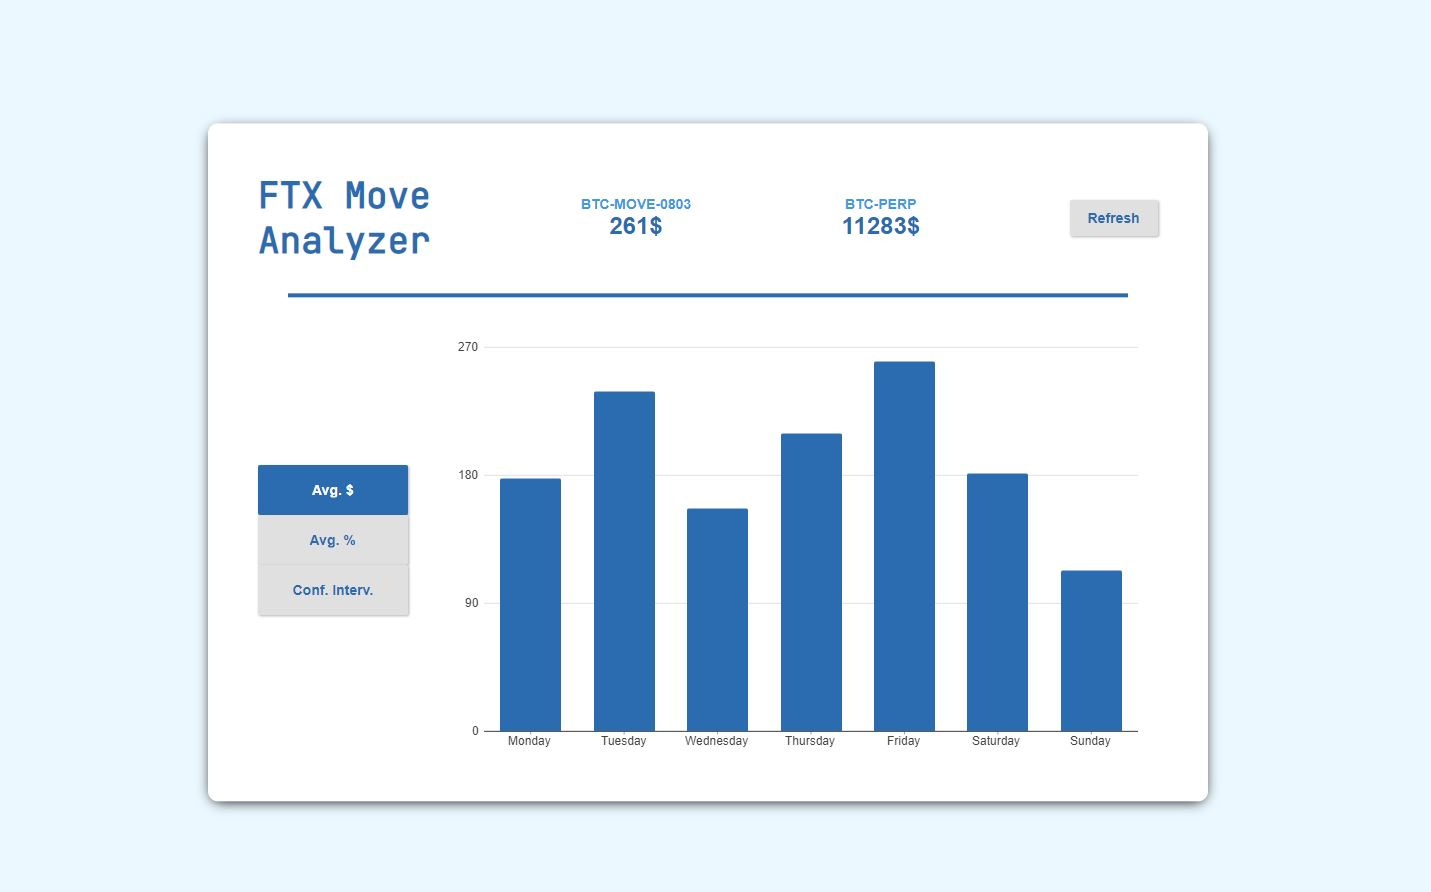
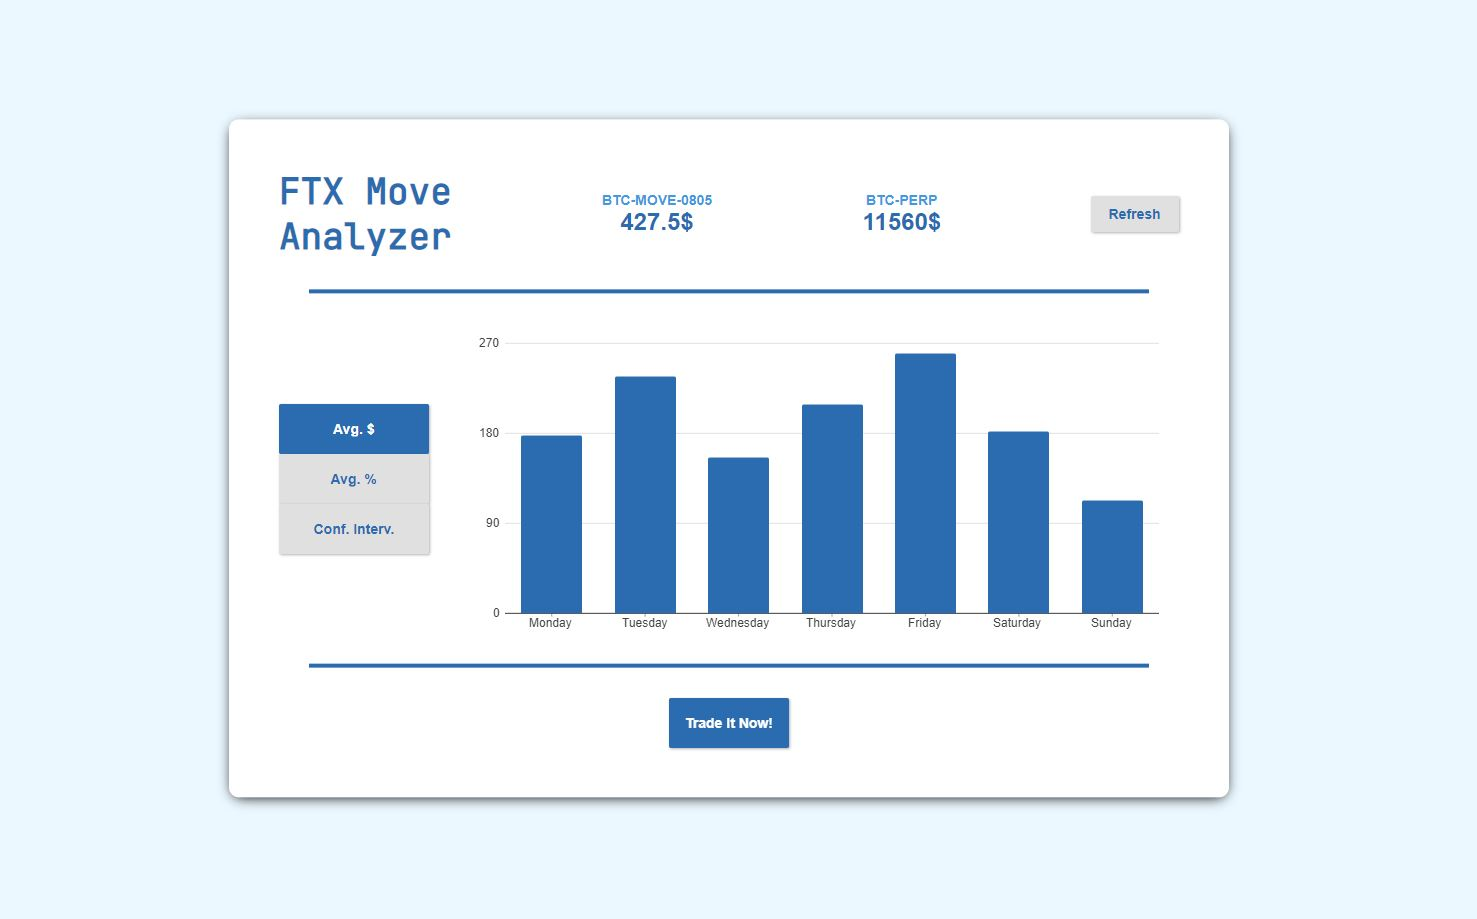
added button trade it now in main

diff --git a/lib/main.dart b/lib/main.dart
@@ -1,8 +1,6 @@
 import 'package:flutter/material.dart';
 import 'package:tailwind_colors/tailwind_colors.dart';
-
-//import 'package:url_launcher/url_launcher.dart';
-import 'dart:html' as html;
+import 'package:url_launcher/url_launcher.dart';
 
 import 'ftxQueryClasses.dart';
 import 'ftxQuery.dart';
@@ -57,6 +55,15 @@ class _MyHomePageState extends State<MyHomePage> {
     moveContractdata = fetchMoveData();
 
     setState(() {});
+  }
+
+  void _launchURL(String url) async {
+    print("launchin url");
+    if (await canLaunch(url)) {
+      await launch(url);
+    } else {
+      throw "Error: Could not launch $url";
+    }
   }
 
   @override
@@ -127,6 +134,24 @@ class _MyHomePageState extends State<MyHomePage> {
                   },
                 ),
               ),
+              Container(
+                // SEPERATOR
+                margin: EdgeInsets.all(30),
+                decoration: BoxDecoration(
+                  border: Border.all(color: TWColors.blue[700], width: 2.0),
+                ),
+              ),
+              Container(
+                height: 50,
+                child: RaisedButton(
+                  child: Text(
+                    "Trade It Now!",
+                    style: TextStyle(color: Colors.white, fontWeight: FontWeight.bold,),
+                  ),
+                  onPressed: () => _launchURL("https://ftx.com/#a=3167343"),
+                  color: TWColors.blue[700],
+                ),
+              ),
             ],
           ),
         ),
@@ -143,7 +168,6 @@ class ContainerHeaderDataDisplay extends StatelessWidget {
 
   @override
   Widget build(BuildContext context) {
-    // TODO: implement build
     return Column(
       children: [
         Text(
@@ -257,17 +281,6 @@ class ContainerHeader extends StatelessWidget {
                           color: TWColors.blue[700],
                         ),
                       ),
-                      /*
-                      Container(
-                        width: 50,
-                        child: RaisedButton(
-                          child: Icon(Icons.folder_open),
-                          onPressed: () => {
-                            html.window.open("https://github.com/Wally869/FTX_MoveDisplay", ""),                            
-                          },
-                        ),
-                      ),
-                      */
                     ],
                   ),
                   Container(
